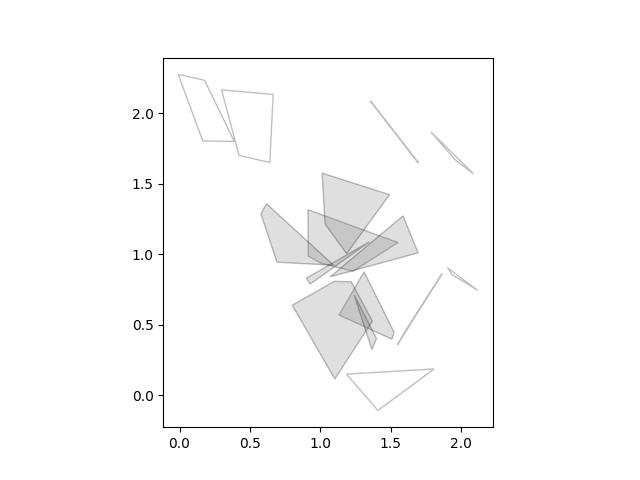
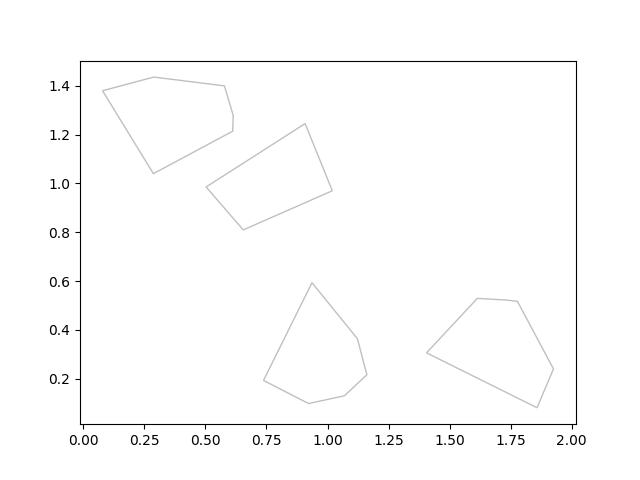
Regenerated Plots

diff --git a/rr1133-mmh255/2d_rigid_body.py b/rr1133-mmh255/2d_rigid_body.py
@@ -304,14 +304,22 @@ if function_parameter == "Rigid":
 elif function_parameter == "Minkowski":
     #Initialize figures and axes
     f,ax = plt.subplots(dpi = 100)
+    
+    #Scenes that we updated to ensure that the polygon falls within the border
+    updates = [2, 4, 6, 7, 8]
+    
     for scene_number in range(1, 9):
-        file = f"rr1133-mmh255/scene.npy" if scene_number == 1 else f"rr1133-mmh255/scene{scene_number}.npy"        
+        file = f"rr1133-mmh255/scene.npy" if scene_number == 1 else f"rr1133-mmh255/scene{scene_number}.npy"
+        
+        if (scene_number in updates):
+            file = f"rr1133-mmh255/p2_scene{scene_number}.npy"
+                
         for rotation_angle in [0, 45, 90]:
             ax.set_aspect("equal")
             minkowskiPlot = MinkowskiPlot(f, ax, rotation_angle = rotation_angle, file = file)
             minkowskiPlot.optimized_generate_minkowski_plot()
             minkowskiPlot.generate_minkowski_plot()
-            plt.savefig(f"Problem3_minkowski{scene_number}_{rotation_angle}.jpg")
+            plt.savefig(f"rr1133-mmh255/Problem3_minkowski{scene_number}_{rotation_angle}.jpg")
             ax.clear()
 
     plt.close(f)

diff --git a/rr1133-mmh255/collision_checking_tests.py b/rr1133-mmh255/collision_checking_tests.py
@@ -6,8 +6,17 @@ import time
 #Testing this on multiple polygon scenes
 scenes = ["scene.npy", "scene2.npy", "scene3.npy", "scene4.npy", "scene5.npy", "scene6.npy", "scene7.npy", "scene8.npy"]
 
+#Scenes that we updated to ensure that the polygon falls within the border
+updates = [2, 4, 6, 7, 8]
+
 for index, scene in enumerate(scenes):
-    polygons = np.load(f"rr1133-mmh255/{scene}", allow_pickle = True)
+    polygons = None
+    
+    if not (index + 1 in updates):
+        polygons = np.load(f"rr1133-mmh255/{scene}", allow_pickle = True)
+    else:
+        polygons = np.load(f"rr1133-mmh255/p2_{scene}", allow_pickle = True)
+        
     file_name = f"rr1133-mmh255/Problem2_scene{index + 1}.jpg"
     print_diagnostics = False
     
